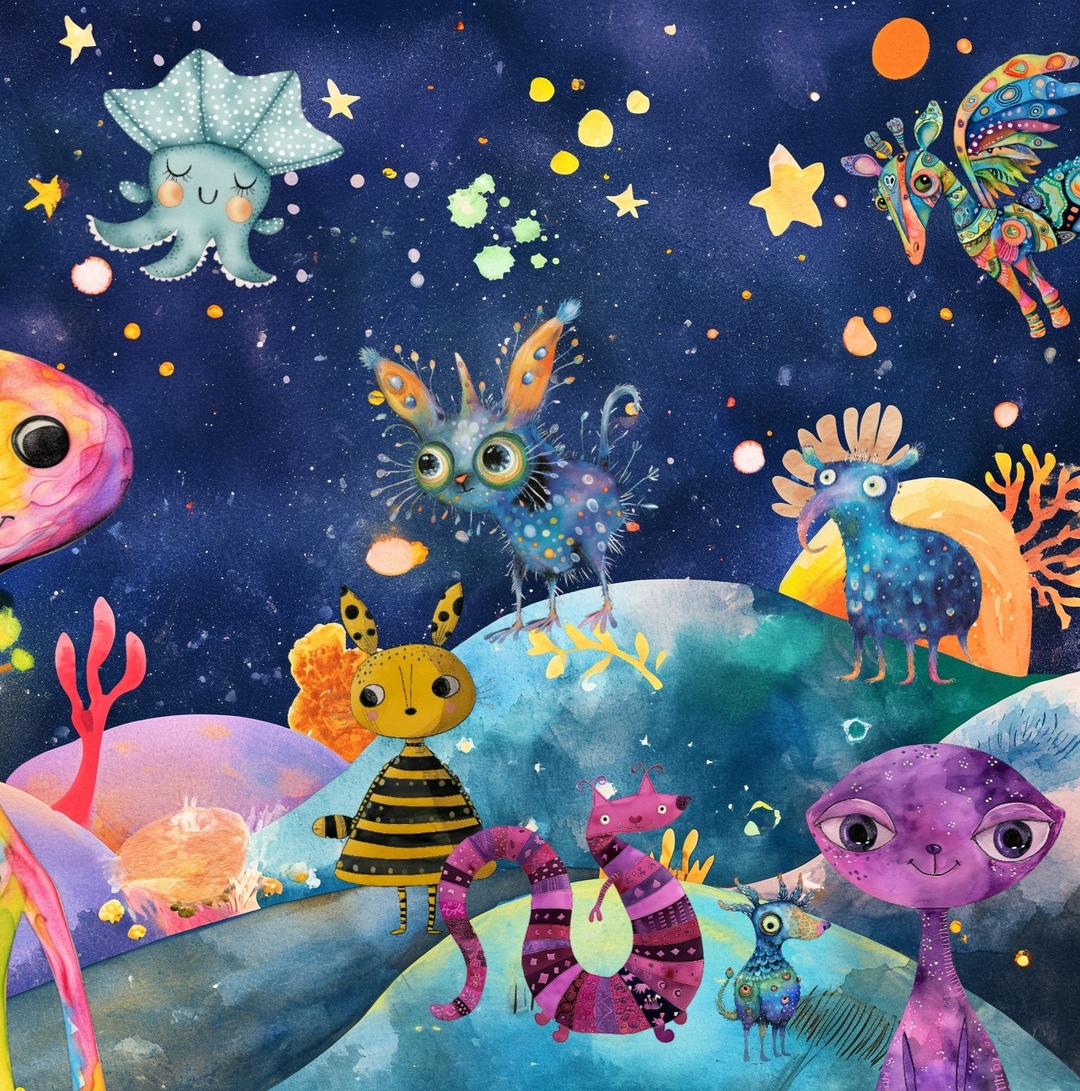
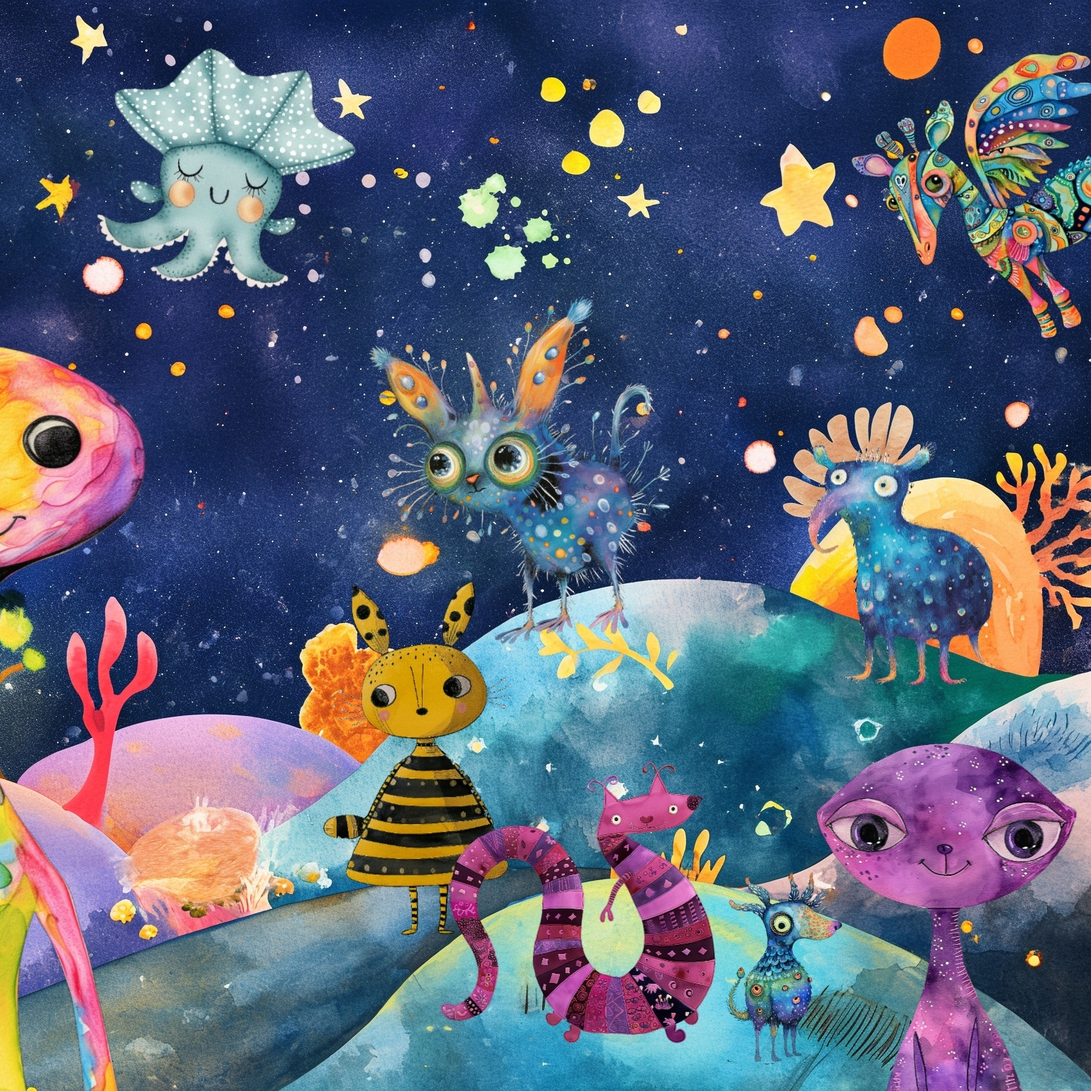
stars book v1 done

diff --git a/src/components/StarsBook.js b/src/components/StarsBook.js
@@ -1,13 +1,11 @@
-import React, { useState, useEffect } from 'react';
-import { Grid, Paper } from '@mui/material';
+import React, { useState, useEffect,useRef } from 'react';
+import { Grid,Button} from '@mui/material';
 import styled from 'styled-components';
-import img9 from '../images/starsBook/9.png';
-import img10 from '../images/starsBook/10.png';
-import img27 from '../images/starsBook/27.jpg';
-import img28 from '../images/starsBook/28.jpg';
 import textBoxImg from '../images/starsBook/textbox2.png';
 import Comfortaa from '../fonts/Comfortaa-VariableFont_wght.ttf';
 import AmaticSC from '../fonts/AmaticSC-Bold.ttf';
+import domtoimage from 'dom-to-image';
+import { saveAs } from 'file-saver';
 
 const textData = [
 
@@ -32,7 +30,7 @@ const textData = [
     { "id": 19, "text": "Människorna planterade frön i jorden. Solen lyste på fröna och hjälpte dom växa. Vete som bakades till bröd, som Pita och Bao. Bönor som kokades till soppa. Knapriga morötter. Vad mer kan man odla och äta?" },
     { "id": 20, "text": "Sen byggde människor städer. Uppfinnare uppfann en massa saker: Varm eld, mysiga hus, spännande böcker, roliga leksaker och massa annat. Så uppfanns också raketer. Metallrör som sprutade eld ur rumpan. Högt och snabbt, högre än fåglar flög dom, snabbare än en bil, hela vägen ut i rymden! Hela vägen till..." },
     { "id": 21, "text": "Månen! I raketer flög människor till månen. Först ett litet steg försiktigt ut på månen. Sen hoppandes och studsandes. På månen går det att hoppa högre än på studsmattan! Oj vad astronauterna skrattade. Lyfta tunga saker är lätt på månen." },
-    { "id": 22, "text": "Månen är som en magiskt värld. Fylld med vit sand och många stenar och stora gropar som kallas för kratrar. Ibland ser ju månen ut som en boll, ibland ser den halv ut. Men den är alltid rund. Det mörka är jordens skugga på månen. Precis som din skugga kan göra marken mörk." },
+    { "id": 22, "text": "Månen är som en magiskt värld. Fylld med vit sand och många stenar och stora gropar som kallas för kratrar. Ibland ser ju månen ut som en boll, ibland ser den halv ut. Men den är alltid rund. Det mörka är jordens skugga på månen." },
     { "id": 23, "text": "Det här är planeten Venus. Dit har ingen människa åkt än. Där finns det gula moln som luktar prutt. Det är så varmt på Venus, att glassar smälter direkt. Snabbare än på sommaren. Kladdigt va?" },
     { "id": 24, "text": "Mars är en annan planet som ingen åkt till än. Där är det lite kallare. Fullt med röd sand och berg. Massa plats att bygga nya städer på, nya lekplatser kanske. Mars är lite som månen, det går att hoppa högt och lyfta tungt. Vart skulle du vilja åka och vad skulle du packa med dig?" },
     { "id": 25, "text": "Långt ut i rymden, på planeter som snurrar runt andra stjärnor så kanske det finns rymdvarelser. Kanske har dom många huvuden och kan flyga utan vingar." },
@@ -47,11 +45,11 @@ const PlanetLabels = ({ labels }) => {
 
 
     return (
-        <div style={{ position: "absolute", color: "black", top: 0, left: 0 }}>
+        <div style={{ position: "absolute", color: "white", top: 0, left: 0 }}>
             {labels.map(label => (
                 <Text key={label.name} style={{
                     position: "absolute",
-                    backgroundColor: "beige",
+                    backgroundColor: "rgba(0,0,0,0.7)",
                     padding: "0.4vw",
                     borderRadius: "0.4vw",
                     fontSize: "0.9vw",
@@ -66,19 +64,19 @@ const PlanetLabels = ({ labels }) => {
     );
 };
 const planetLabels = [
-    { name: "Saturnus", top: "5vw", left: "13vw" },
-    { name: "Jupiter", top: "3vw", left: "30vw" },
-    { name: "Venus", top: "45vw", left: "1vw" },
-    { name: "Merkurius", top: "32vw", left: "4.5vw" },
+    { name: "Saturnus", top: "6vw", left: "13vw" },
+    { name: "Jupiter", top: "3vw", left: "30.5vw" },
+    { name: "Venus", top: "44.2vw", left: "1vw" },
+    { name: "Merkurius", top: "32vw", left: "4.9vw" },
     { name: "Jorden", top: "15vw", left: "44vw" },
     { name: "Mars", top: "35.2vw", left: "41.2vw" },
-    { name: "Uranus", top: "16vw", left: "2vw" },
-    { name: "Neptune", top: "43vw", left: "36.5vw" }
+    { name: "Uranus", top: "16.3vw", left: "2vw" },
+    { name: "Neptune", top: "43vw", left: "36vw" }
 ];
 // Configuration data for each page
 const configData = [
     //BIG BANG
-    { id: 1, hasBackground: true, width: 40, height: 12 },
+    { id: 1, hasBackground: true, width: 40,top:42, height: 8.5 },
     { id: 2, },
     //GALAXY
     { id: 3, },
@@ -90,8 +88,8 @@ const configData = [
     {id: 7, left: 9, width: 17, top: 40,  opacity: 0.5,  component: PlanetLabels, componentProps: { labels: planetLabels }},
     { id: 8, top: 40, left: 5, width: 40, opacity: 0.4 },
     //BAKTERIER
-    { id: 9, hasBackground: true, top: 37, width: 35, left: 1, opacity: 0.7, height: 15 },
-    { id: 10, hasBackground: true, top: 36.5, width: 25.5, left: 1, opacity: 0.7, height: 17.5 },
+    { id: 9, hasBackground: true, top: 43.5, width: 52.1, left: 1, opacity: 0.8, height: 8},
+    { id: 10, hasBackground: true, top: 43.5, width: 52.5, left: 1.5, opacity: 0.8, height: 8 },
     //DINOSAURIER
     { id: 11, color: 'black', top: 0, width: 44,left:1.5 },
     { id: 12, top: 0, left: 4, opacity: 0.35, width: 33 },
@@ -107,9 +105,9 @@ const configData = [
     //ODLA
     { id: 19, color: 'black', left: 1, top: 1, width: 32, opacity: 0.2},
     //{ id: 20, top: 1,left:33,width:20},
-    { id: 20, top: 43.5, left: 2, width: 51, hasBackground: true, height: 8, opacity: 0.5, left: 1 },
+    { id: 20, top: 43.5,  width: 51, hasBackground: true, height: 8, opacity: 0.5, left: 1 },
     //MÅNEN
-    { id: 21, top: 38, left: 5, with: 35 },
+    { id: 21, top: 40, left: 5, width: 38 },
     { id: 22, top: 0, width: 45, left: 2 },
     //VENUS
     { id: 23, color: 'black', width: 16, top: 1, left: 1, opacity: 0.2 },
@@ -133,23 +131,43 @@ const DEFAULT_TEXT_WIDTH = 35;
 const DEFAULT_TEXT_HEIGHT = 9;
 const TEXT_SHADOW_OPACITY = 0.3;
 const DEFAULT_TEXTBOX_OPACITY = 0.6;
+const SAVE_SIZE = 4;
+const BRIGHTNESS_ADJUSTMENT = 1.1;
 
 
 
 const StarsBook = () => {
+    const pageRefs = useRef([]); // Array to hold refs for each BookPage
+
+    const downloadAllPages = () => {
+        console.log("Downloading all pages");
+        Promise.all(pageRefs.current.map((pageRef, index) => {
+            if (pageRef) {
+                return saveAsImage(pageRef, `Page_${index + 1}`);
+            }
+            return Promise.resolve();
+        }))
+        .then(() => {
+            console.log("All pages downloaded");
+        })
+        .catch(error => {
+            console.error("Error downloading pages", error);
+        });
+    };
 
     return (
-        <Grid container spacing={0} style={{ background: 'black', margin: 0, padding: 0, fontFamily: Comfortaa }}>
-            {configData.map((config) => {
+        <Grid container spacing={0} style={{ background: 'black', margin: 0, padding: 0, fontFamily: Comfortaa, width:"100vw" }}>
+             <Button fullWidth onClick={downloadAllPages}>Download All</Button>
+            {configData.map((config, index) => {
                 const pageText = textData.find(text => text.id === config.id)?.text || '';
-                return <BookPage key={config.id} text={pageText ?? ""} config={config} />;
+                return <BookPage  ref={el => pageRefs.current[index] = el}  key={config.id} text={pageText ?? ""} config={config} />;
             })}
         </Grid>
     );
 };
 
 
-const BookPage = ({ text, config }) => {
+const BookPage = React.forwardRef(({ text, config }, ref) => {
     const {
         id,
         top = DEFAULT_TOP,
@@ -179,8 +197,8 @@ const BookPage = ({ text, config }) => {
 
     const pageContainerStyle = {
         position: 'relative',
-        width: 'calc(50vw - 9px)', // Adjust width as needed
-        height: 'calc(50vw - 9px)', // Adjust height as needed
+        width: 'calc(50vw )', // Adjust width as needed
+        height: 'calc(50vw)', // Adjust height as needed
         marginBottom: '20px',
     };
     const [pageImage, setPageImage] = useState(img);
@@ -194,17 +212,74 @@ const BookPage = ({ text, config }) => {
     const RenderedComponent = config.component;
 
     return (
-        <div style={pageContainerStyle}>
+        <div style={pageContainerStyle} ref={ref}>
             {pageImage && <img src={pageImage} alt={`Page ${id}`} style={{ width: '100%', height: 'auto' }} />}
             {hasBackground && <img src={textBoxImg} style={{ position: 'absolute', top: `${top - 0.5}vw`, left: `${left - 1.5}vw`, width: width + "vw", height: height + "vw", opacity: opacity }} />}
             <Text style={textStyle}>{text}</Text>
             {RenderedComponent && <RenderedComponent {...config.componentProps} />}
         </div>
     );
+});
+
+
+
+const saveAsImage = (pageRef, title) => {
+    const scale = SAVE_SIZE;
+
+    return new Promise((resolve, reject) => {
+        domtoimage.toBlob(pageRef, {
+            width: pageRef.clientWidth * scale,
+            height: pageRef.clientHeight * scale,
+            style: {
+                transform: 'scale(' + scale + ')',
+                transformOrigin: 'top left'
+            }
+        })
+        .then(blob => adjustGamma(blob))
+        .then((brighterBlob) => {
+            saveAs(brighterBlob, title + '.png');
+            resolve();
+        })
+        .catch((error) => {
+            console.error('oops, something went wrong!', error);
+            reject(error);
+        });
+    });
 };
+const adjustGamma = (blob, gamma = BRIGHTNESS_ADJUSTMENT) => {
+    return new Promise((resolve, reject) => {
+        if (typeof window === 'undefined') {
+            reject(new Error('This function can only be run on the client-side.'));
+            return;
+        }
 
+        const canvas = document.createElement('canvas');
+        const ctx = canvas.getContext('2d');
 
+        const img = new window.Image();
+        img.onload = function () {
+            canvas.width = img.width;
+            canvas.height = img.height;
 
+            ctx.drawImage(img, 0, 0);
+
+            const imageData = ctx.getImageData(0, 0, canvas.width, canvas.height);
+            const data = imageData.data;
+            for (let i = 0; i < data.length; i += 4) {
+                data[i] = 255 * Math.pow(data[i] / 255, 1 / gamma);     // Red
+                data[i + 1] = 255 * Math.pow(data[i + 1] / 255, 1 / gamma); // Green
+                data[i + 2] = 255 * Math.pow(data[i + 2] / 255, 1 / gamma); // Blue
+            }
+
+            ctx.putImageData(imageData, 0, 0);
+
+            canvas.toBlob(resolve);
+        };
+
+        img.onerror = reject;
+        img.src = URL.createObjectURL(blob);
+    });
+}
 
 
 const loadImage = async (id, setPageImage) => {
